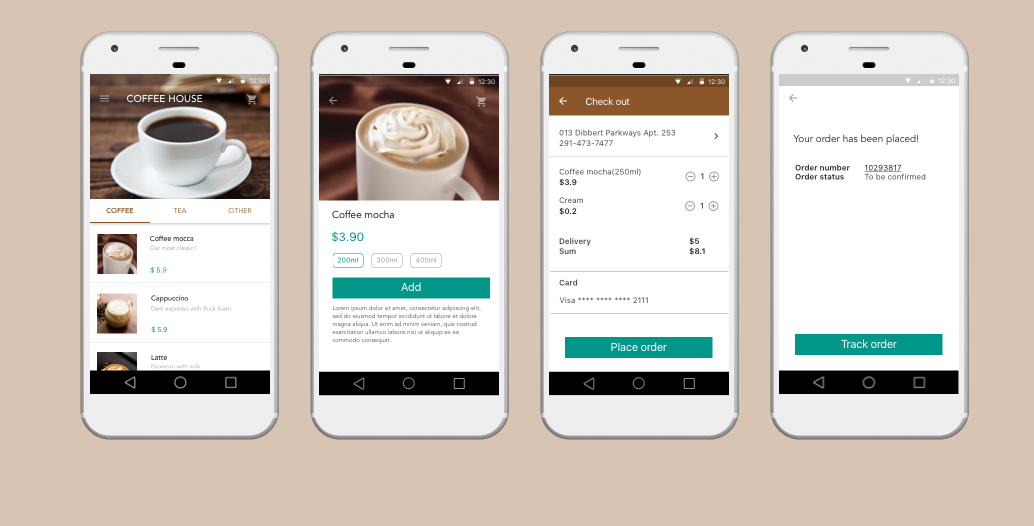
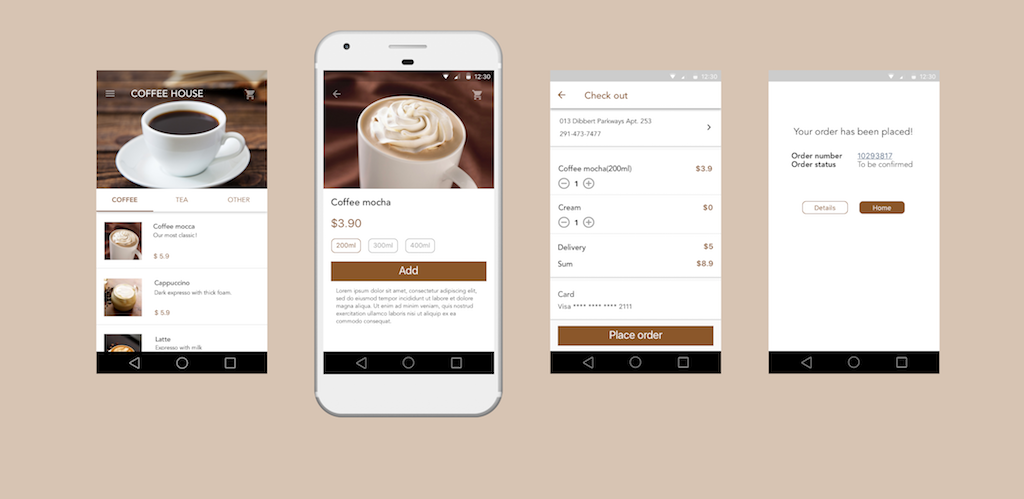
update tdc

Changed region(s): [[0.0625, 0.0601, 0.9375, 0.8417], [0.3125, 0.8116, 0.4688, 0.8417]]

diff --git a/project_CoffeeHouse.html b/project_CoffeeHouse.html
@@ -28,6 +28,8 @@
           <h1>Coffee House</h1>
         </div>
         <p class="bottommargin-lg">This is an ecommerce design for an online coffee store.</p>
+            <img  class="img-responsive center-block" src="img/TDC/list-img.png" style="width: 50%;">
+
       </div>
       </div><!-- /intro -->
 
@@ -81,13 +83,7 @@
       <div class="container">
          <h2>Prototype</h2>
          <p> I created a few Hi-Fi mockup.</p>
-         <img class="img-responsive" src="img/TDC/Mockup.png" alt="">
-
-
-         <p>I created an animated prototype for menu page with <i>Axure RP</i>.</p>
-         <img class="center-block" src="img/TDC/animation.gif" alt="">
-         </div>
-     
+         <img class="img-responsive" src="img/TDC/Visual Presentation.jpg" alt="">
         
       </section>
 
